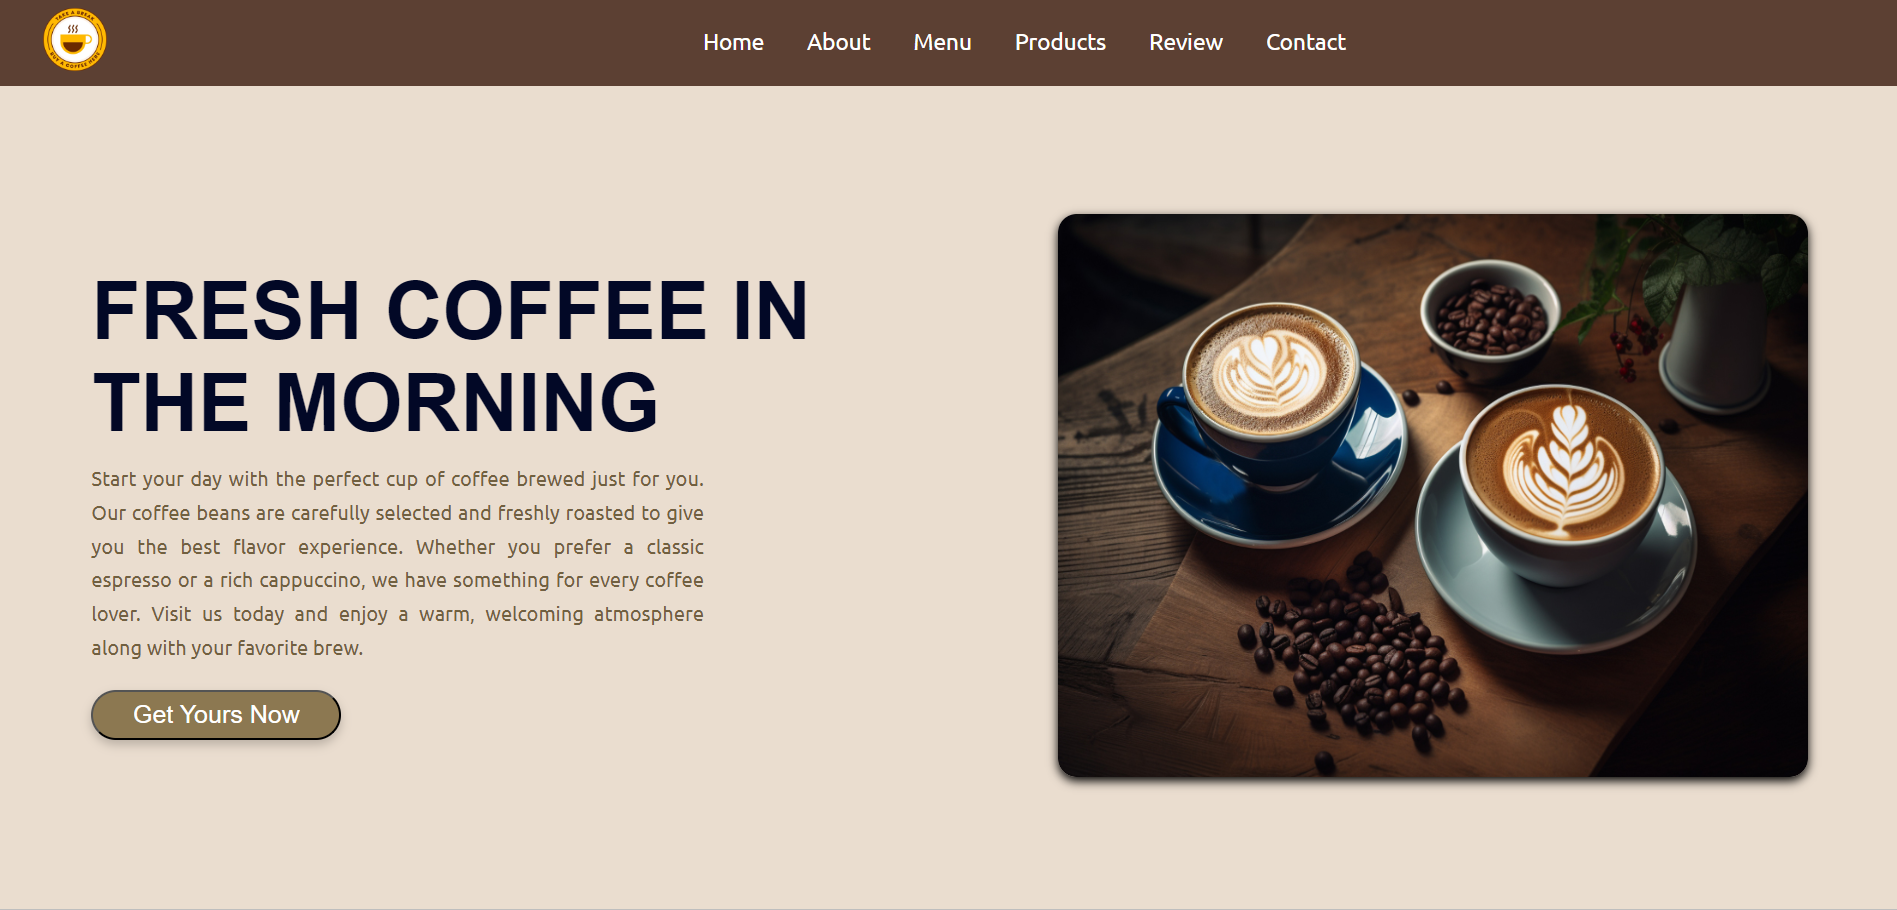
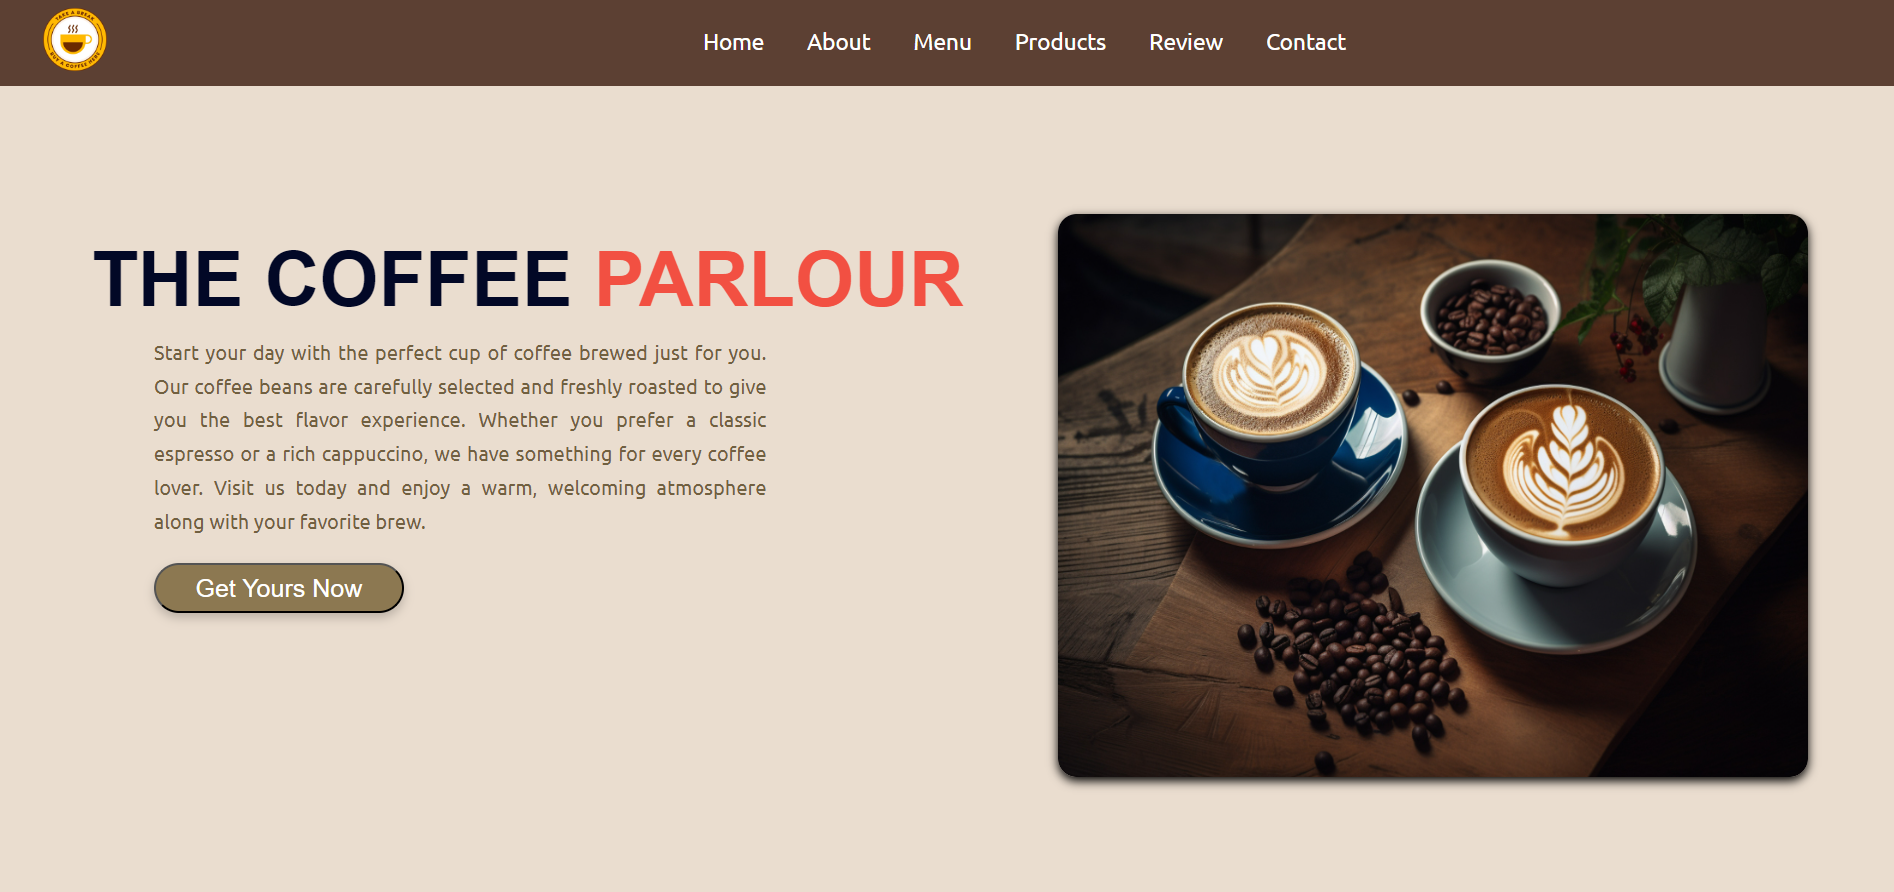
website name added

diff --git a/index.html b/index.html
@@ -6,7 +6,7 @@
     <meta name="viewport" content="width=device-width, initial-scale=1.0" />
     <link rel="icon" href="./img/icons/coffee icon.png" type="img/png" />
     <link rel="stylesheet" href="style.css" />
-    <title>Coffee Shop Website</title>
+    <title>The Coffee Parlour</title>
 </head>
 
 <body>
@@ -28,7 +28,7 @@
     <!--home section-->
     <div id="home" class="home-body">
         <div class="home-description description">
-            <h3>fresh coffee in the morning</h3>
+            <h1><span>the coffee</span> parlour</h1>
             <p>
                 Start your day with the perfect cup of coffee brewed just for you. Our
                 coffee beans are carefully selected and freshly roasted to give you
@@ -37,7 +37,10 @@
                 today and enjoy a warm, welcoming atmosphere along with your favorite
                 brew.
             </p>
-            <a href="#menu"><button class="btn">get yours now</button></a>
+            <div class="button">
+                <a href="#menu"><button class="btn">get yours now</button></a>
+            </div>
+
         </div>
 
         <div class="home-image image">

diff --git a/style.css b/style.css
@@ -55,11 +55,32 @@ body {
   padding-bottom: 100px;
 }
 
-.home-description h3 {
+.home-description h1 span {
   color: #020826;
-  font-size: 4rem;
+}
+
+.home-description h1 {
+  color: #f25042;
+}
+
+.home-description h1 {
+  font-size: 3.8rem;
   margin-bottom: 10px;
   text-transform: uppercase;
+}
+
+.home-description p {
+  width: 70%;
+  line-height: 30px;
+  color: #716040;
+  text-align: center;
+  font-size: 1rem;
+  font-family: "Ubuntu", sans-serif;
+  padding-left: 50px;
+}
+
+.button {
+  margin-left: 50px;
 }
 
 /*image*/

diff --git a/readme.md b/readme.md
@@ -1,6 +1,6 @@
-# Coffee Shop Website
+# The Coffee Parlour Website
 
-Welcome to the Coffee Shop Website! This project showcases a beautifully designed coffee shop website with various sections, including a navigation bar, home page, about us section, menu, products, reviews, and contact information.
+Welcome to The Coffee Parlour website, a beautifully designed online presence for a coffee shop. This project features various sections, including a navigation bar, home page, about us section, menu, products, reviews, and contact information.
 
 ## Hosted Link
 You can visit the live website here: [Coffee Shop Website](https://coffeeshopwebsitedesign.netlify.app/)
